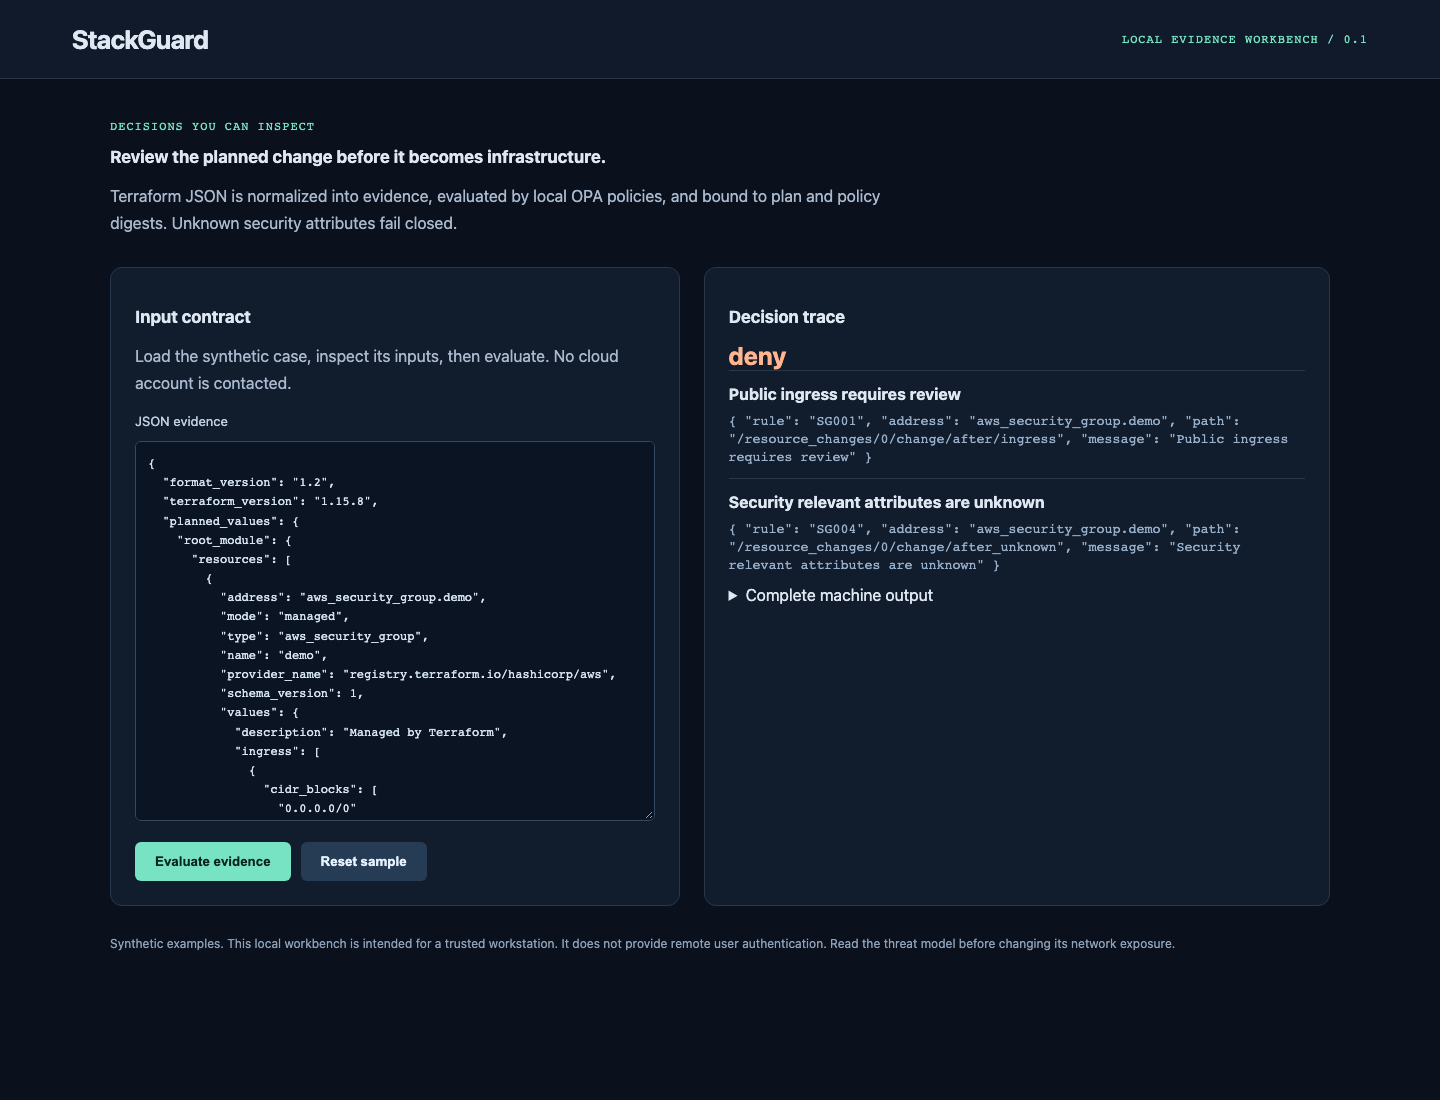
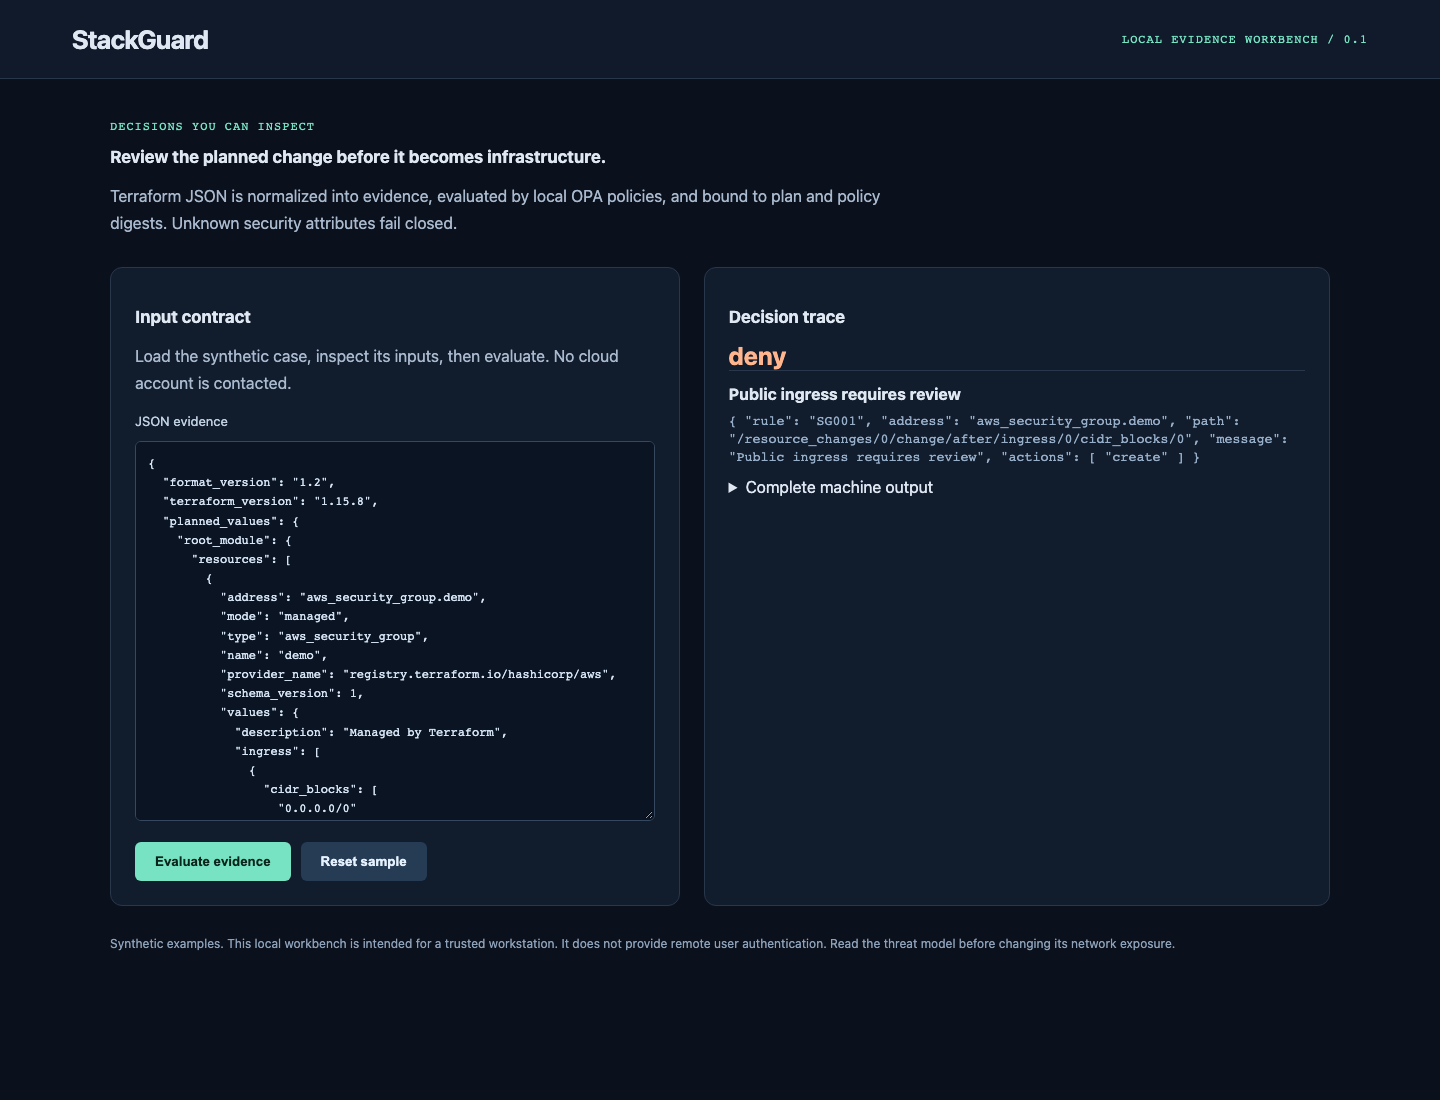
Preserve precise Terraform unknown markers and planned-action evidence

diff --git a/test/engine.test.ts b/test/engine.test.ts
@@ -25,8 +25,39 @@ test("real Terraform-shaped unsafe sample is blocked with stable evidence", asyn
   const result = await evaluate(await load("samples/unsafe-plan.json"));
   assert.equal(result.decision, "deny");
   assert.ok(result.findings.some((f) => f.rule === "SG001"));
+  assert.equal(result.findings.length, 1);
+  assert.equal(
+    result.findings[0]?.path,
+    "/resource_changes/0/change/after/ingress/0/cidr_blocks/0",
+  );
+  assert.deepEqual(result.findings[0]?.actions, ["create"]);
   assert.match(result.plan_sha256, /^[a-f0-9]{64}$/);
   assert.match(reviewMarkdown(result), /resource_changes/);
+});
+
+test("computed descriptions remain non-security metadata while nested security unknowns deny", async () => {
+  const after = { ingress: [{ cidr_blocks: ["10.0.0.0/8"] }] };
+  assert.equal(
+    (
+      await evaluate(
+        plan("aws_security_group", after, ["create"], null, { ingress: [{ description: true }] }),
+      )
+    ).decision,
+    "allow",
+  );
+  for (const key of [
+    "cidr_blocks",
+    "ipv6_cidr_blocks",
+    "from_port",
+    "protocol",
+    "security_groups",
+  ]) {
+    const result = await evaluate(
+      plan("aws_security_group", after, ["create"], null, { ingress: [{ [key]: true }] }),
+    );
+    assert.equal(result.decision, "deny");
+    assert.ok(result.findings.some((f) => f.path.endsWith(`/after_unknown/ingress/0/${key}`)));
+  }
 });
 test("private ingress permits and unknown ingress blocks", async () => {
   assert.equal(
@@ -46,6 +77,14 @@ test("IPv6 public ingress and public ACLs denied", async () => {
   assert.equal(
     (await evaluate(plan("aws_security_group", { ingress: [{ ipv6_cidr_blocks: ["::/0"] }] })))
       .decision,
+    "deny",
+  );
+  assert.equal(
+    (
+      await evaluate(
+        plan("aws_security_group", { ingress: [{ ipv6_cidr_blocks: ["0:0:0:0:0:0:0:0/0"] }] }),
+      )
+    ).decision,
     "deny",
   );
   for (const acl of ["public-read", "public-read-write", "authenticated-read"])
@@ -80,6 +119,17 @@ test("protected replacement blocks and ordinary deletion permits", async () => {
     (await evaluate(plan("aws_security_group", null, ["delete"], { tags: {} }))).decision,
     "allow",
   );
+});
+test("protected state removal requires review and missing previous values reject", async () => {
+  assert.equal(
+    (
+      await evaluate(
+        plan("aws_security_group", null, ["forget"], { tags: { stackguard_protected: "true" } }),
+      )
+    ).decision,
+    "deny",
+  );
+  assert.throws(() => normalize(plan("aws_security_group", null, ["forget"], null)));
 });
 test("unassessed resources fail closed, unchanged and data resources do not", async () => {
   assert.equal((await evaluate(plan("aws_unknown", {}))).decision, "deny");

diff --git a/src/engine.ts b/src/engine.ts
@@ -36,7 +36,16 @@ const terraform = z
   })
   .passthrough();
 export const findingSchema = z
-  .object({ rule: z.string(), address: z.string(), path: z.string(), message: z.string() })
+  .object({
+    rule: z.string(),
+    address: z.string(),
+    path: z.string(),
+    message: z.string(),
+    actions: z
+      .array(z.enum(["no-op", "create", "read", "update", "delete", "forget"]))
+      .min(1)
+      .max(2),
+  })
   .strict();
 export type Finding = z.infer<typeof findingSchema>;
 export function normalize(input: unknown) {
@@ -52,9 +61,13 @@ export function normalize(input: unknown) {
       const actions = r.change.actions;
       if ((actions.includes("create") || actions.includes("update")) && r.change.after === null)
         throw new Error("Missing planned values");
-      if (actions.includes("delete") && r.change.before === null)
+      if ((actions.includes("delete") || actions.includes("forget")) && r.change.before === null)
         throw new Error("Missing previous values");
-      if (actions.length === 1 && actions[0] === "delete" && r.change.after !== null)
+      if (
+        actions.length === 1 &&
+        (actions[0] === "delete" || actions[0] === "forget") &&
+        r.change.after !== null
+      )
         throw new Error("Deletion has planned values");
       if (r.type === "aws_security_group" && r.change.after !== null) {
         const cidr = (family: number) =>
@@ -163,7 +176,7 @@ export function reviewMarkdown(report: Awaited<ReturnType<typeof evaluate>>): st
     "",
     ...report.findings.map(
       (f) =>
-        `- **${clean(f.rule)}** ${clean(f.address)} at \`${clean(f.path)}\`: ${clean(f.message)}`,
+        `- **${clean(f.rule)}** ${clean(f.address)} [${f.actions.join(", ")}] at \`${clean(f.path)}\`: ${clean(f.message)}`,
     ),
   ].join("\n");
 }

diff --git a/README.md b/README.md
@@ -27,10 +27,10 @@ Open [http://127.0.0.1:8080](http://127.0.0.1:8080). For a container demo, run `
 
 ## What it enforces
 
-- SG001 rejects public IPv4 and IPv6 ingress. SG002 requires all S3 public access block controls. SG003 protects tagged resources from deletion or replacement.
-- SG004 blocks unknown security attributes, SG005 blocks unsupported active resource types, and SG006 rejects public ACLs. SG007 and SG008 reject malformed policy attributes.
+- SG001 rejects public IPv4 and IPv6 ingress. SG002 requires all S3 public access block controls. SG003 protects tagged resources from deletion, replacement or state removal.
+- SG004 recursively evaluates Terraform true/false unknown markers, ignores computed descriptions, and blocks unknown security attributes, SG005 blocks unsupported active resource types, and SG006 rejects public ACLs. SG007 and SG008 reject malformed policy attributes.
 - `check` returns 0 for allow, 1 for deny, and 2 for invalid evidence or policy execution failure. No undefined OPA result becomes an allow.
-- Review evidence contains resource addresses, JSON change pointers, planned-input and policy digests. Policy bytes are copied to a private temporary file before evaluation to bind the decision to the recorded policy.
+- Review evidence contains resource addresses, planned actions, exact JSON field pointers, planned-input and policy digests. Policy bytes are copied to a private temporary file before evaluation to bind the decision to the recorded policy.
 
 ## Inputs, integrations and evidence
 

diff --git a/docs/verification.md b/docs/verification.md
@@ -11,3 +11,5 @@ Container smoke checks start the real image with a read-only root, no Linux capa
 Live account limitations are documented in the README. Green CI establishes the workflow at its recorded commit only. OPA, Terraform and Semgrep results are generated by real tools where specifically stated; all asset and event data is synthetic.
 
 [Hosted Verify run 41094583440](https://github.com/jayekwere/stackguard/actions/runs/41094583440) passed for commit `d1a4c48d34fad32e9396b0328caa64a0f551c067`. It includes unit tests, lint/type checks, exact CLI sample-output comparison, browser execution, dependency audit and the container smoke test. Machine-readable job steps and artifact digests are in [hosted-verification.json](hosted-verification.json).
+
+A final policy regression verifies that Terraform nested false markers represent known values, and that computed descriptions do not become security findings. Nested true markers for CIDRs, ports, protocols and security-group references still deny. The real public-ingress plan now yields one SG001 finding with its exact CIDR pointer and planned create action.
